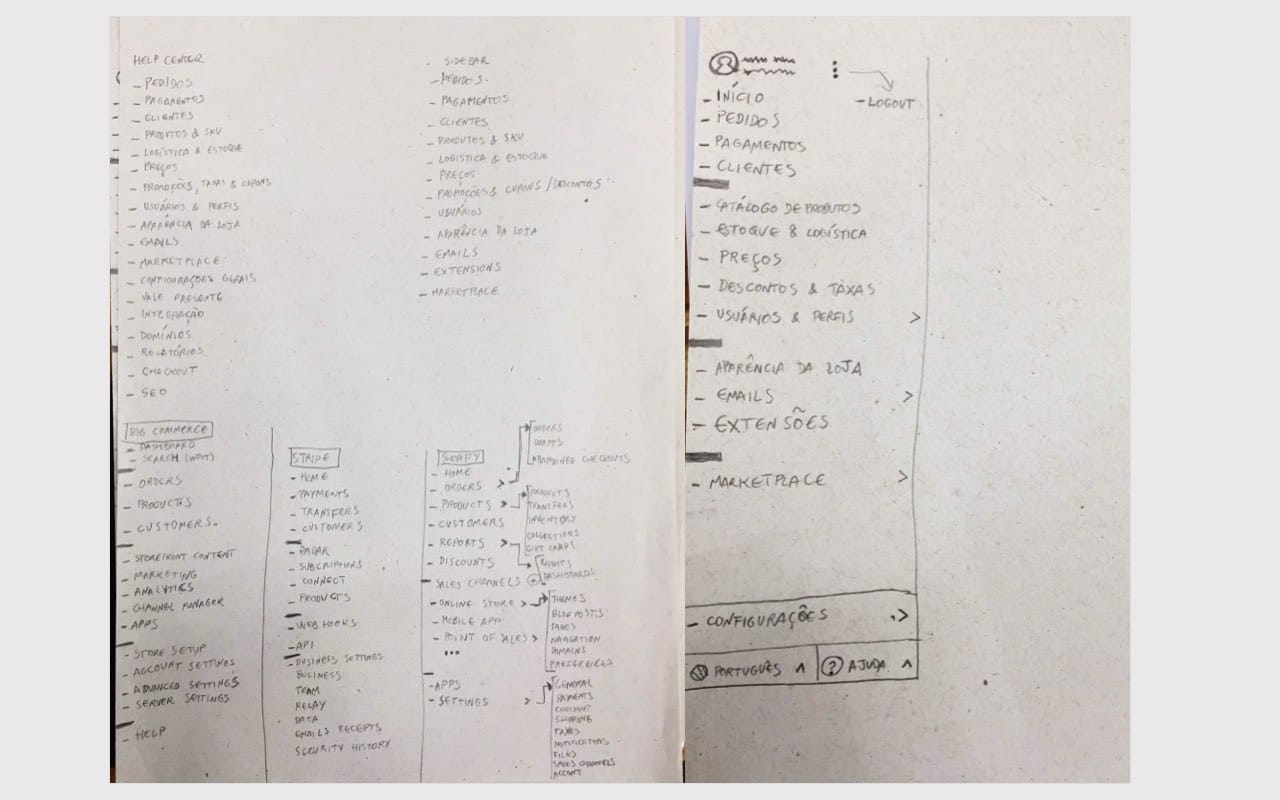
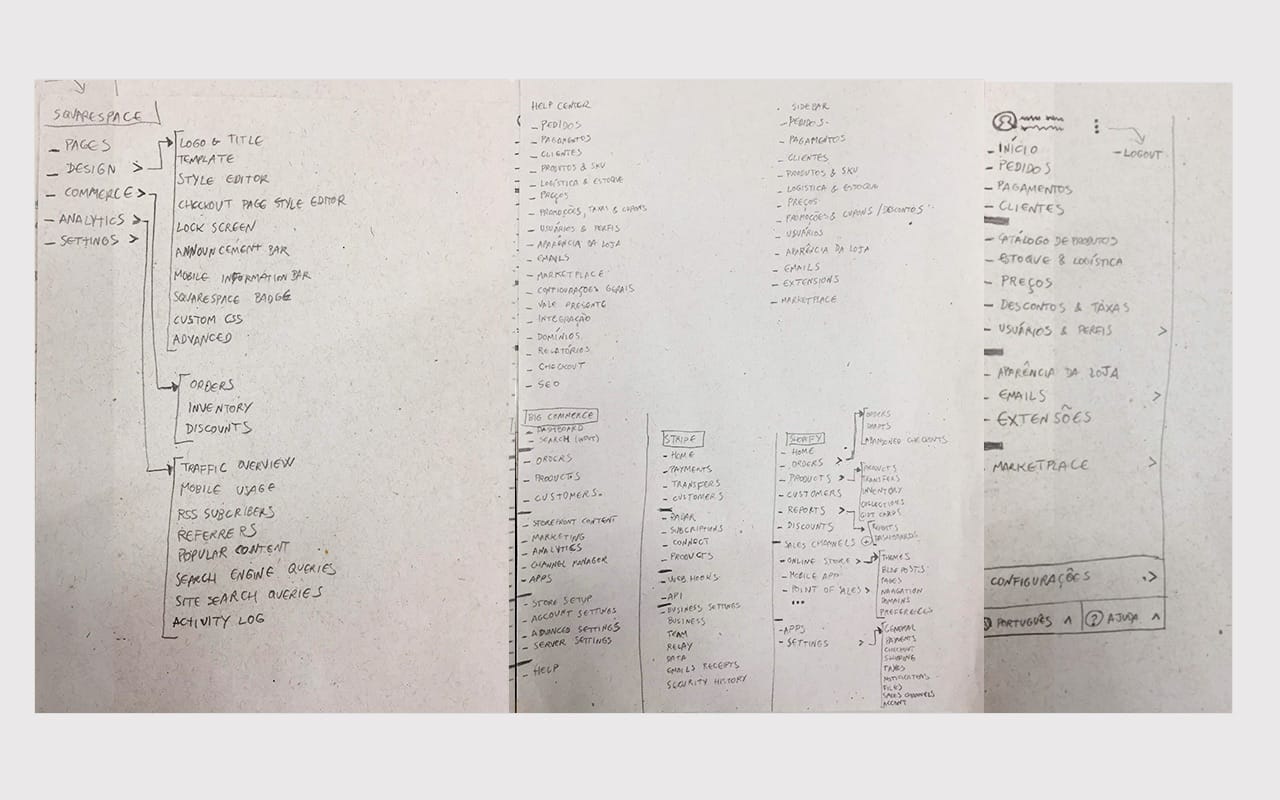
add new nav white board images

diff --git a/_portfolio/vtex-io.html b/_portfolio/vtex-io.html
@@ -82,6 +82,14 @@ excerpt: "Ajudei a conduzir o processo de redesign completo e simplificação da
 
 
 <h3 class="ph2 f2 f1-ns fw2 mv0 pt4 pt5-ns pb3 black-40 tc-ns">Protótipos</h3>
+<div class="cf ph2-ns">
+  <div class="fl w-100 w-100-m w-50-ns ph4">
+    <img src="/images/portfolio/nav-white-board.jpg" alt="Rascunhos de estrutura da navegação" class="dib mv3" />
+  </div>
+  <div class="fl w-100 w-100-m w-50-ns ph2 ph2-m ph0-ns">
+    <img src="/images/portfolio/nav-white-board-extesion.jpg" alt="Início dos rascunhos de estrutura da Extension Store" class="dib mv3" />
+  </div>
+</div>
 
 <div class="tl tl-m tc-ns ph2-ns">
   <p class="f4 f3-ns measure center lh-copy black-50 mv1 mh0 ph2 ph0-ns">Como a navegação seria lançada juntamente com um redesign geral da plataforma e com o módulo de loja de extensões—a Luiza Breier e eu trabalhamos no design visual e estrutura geral da <em>Extension Store</em>, levando em consideração que ela serviria como base para o novo <em>Styleguide</em> do sistema e também seria o caso de uso inicial da nova navegação. Dedicamos alguns dias para uma ampla geração de variantes de layouts e fluxos com coleta de feedbacks da equipe de design e <em>stakeholders</em>. </p>

diff --git a/_portfolio/vtex-storefront.html b/_portfolio/vtex-storefront.html
@@ -124,8 +124,6 @@ excerpt: "Colaborei com a definição da visão de produto, vocabulário, jornad
 
 <div class="w-100 center ph2-ns">
   <video controls width="100%" class="db mb3">
-    <source src="/images/portfolio/storefront-render.webm"
-            type="video/webm">
     <source src="/images/portfolio/storefront-render.mp4"
             type="video/mp4">
   </video>
